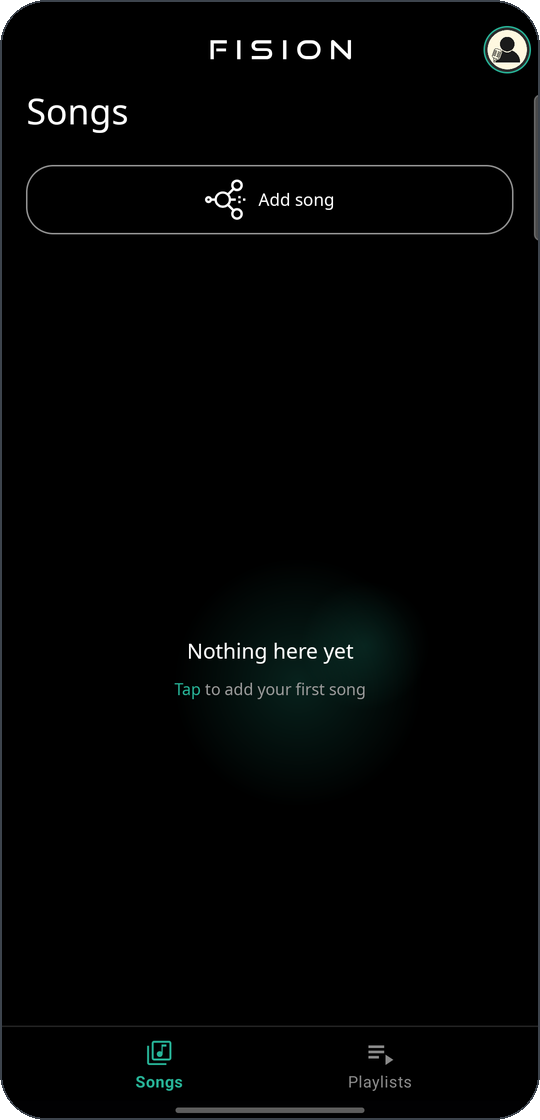
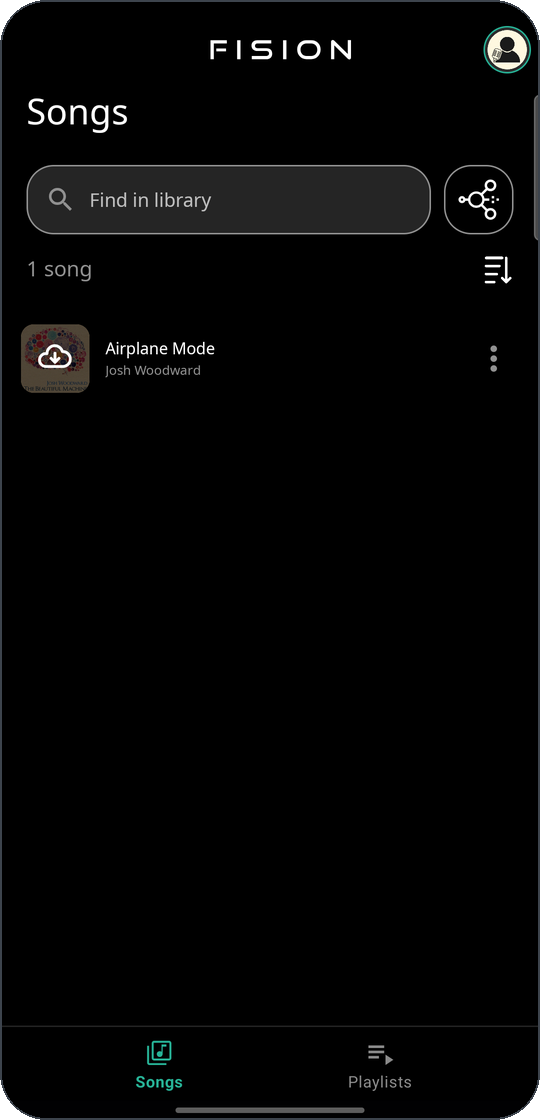
docs(screenshots): refresh settings, account and library captures
The settings and account captures showed server v2.0.0, and the library
capture predated the demo song that new accounts receive. The capture
processor now takes the server version from a single constant.

diff --git a/tools/captures/process.py b/tools/captures/process.py
@@ -22,6 +22,7 @@ FONT = sys.argv[1]
 STATUS_BAR = 75          # px, from the statusBars inset of the capture phone
 BLOCK = 14               # pixelation block (px)
 SERVER = "your-server:8000"
+SERVER_VERSION = "v2.1.0"    # version shown in the account dialog capture
 
 # Cover boxes (x1, y1, x2, y2) of the list rows: 52 dp covers, 189 px pitch.
 COVER_X = (42, 179)
@@ -109,7 +110,7 @@ def fix_e2(im):
     d = ImageDraw.Draw(im)
     d.rectangle((pill[0] - 4, pill[1] - 4, pill[2] + 4, pill[3] + 4), fill=bg)
     f = ImageFont.truetype(FONT, 25)
-    text = SERVER + " · v2.0.0"
+    text = SERVER + " · " + SERVER_VERSION
     tw = f.getbbox(text)[2]
     pad_l, gap, pad_r = 300 - pill[0], 369 - 352, pill[2] - 761
     w = pad_l + icon.width + gap + tw + pad_r

diff --git a/docs/GUIDE.md b/docs/GUIDE.md
@@ -52,7 +52,7 @@ picture is uploaded as a 512×512 JPEG.
 
 <div align="center">
   <img src="./screenshots/b1_library.png" width="300" alt="Song library with downloaded and cloud songs">
-  <img src="./screenshots/a1_library_empty.png" width="300" alt="Empty library">
+  <img src="./screenshots/a1_library_empty.png" width="300" alt="Library of a new account with the demo song">
 </div>
 
 The main screen has two tabs, **Songs** and **Playlists**. The song list
